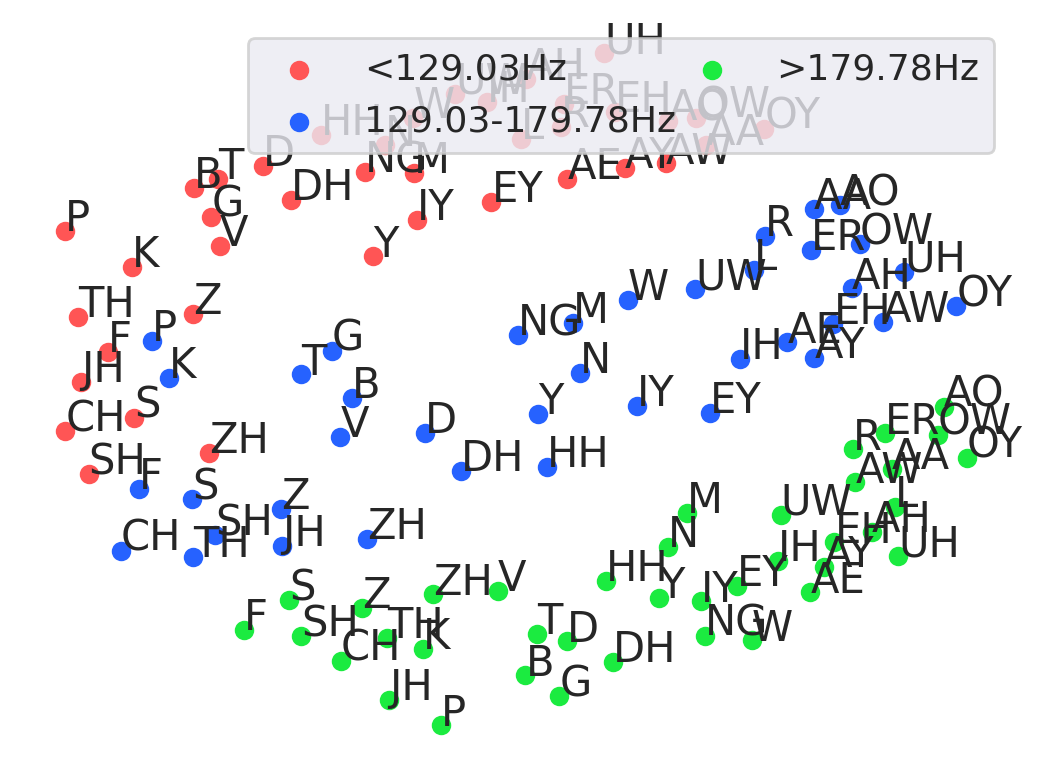
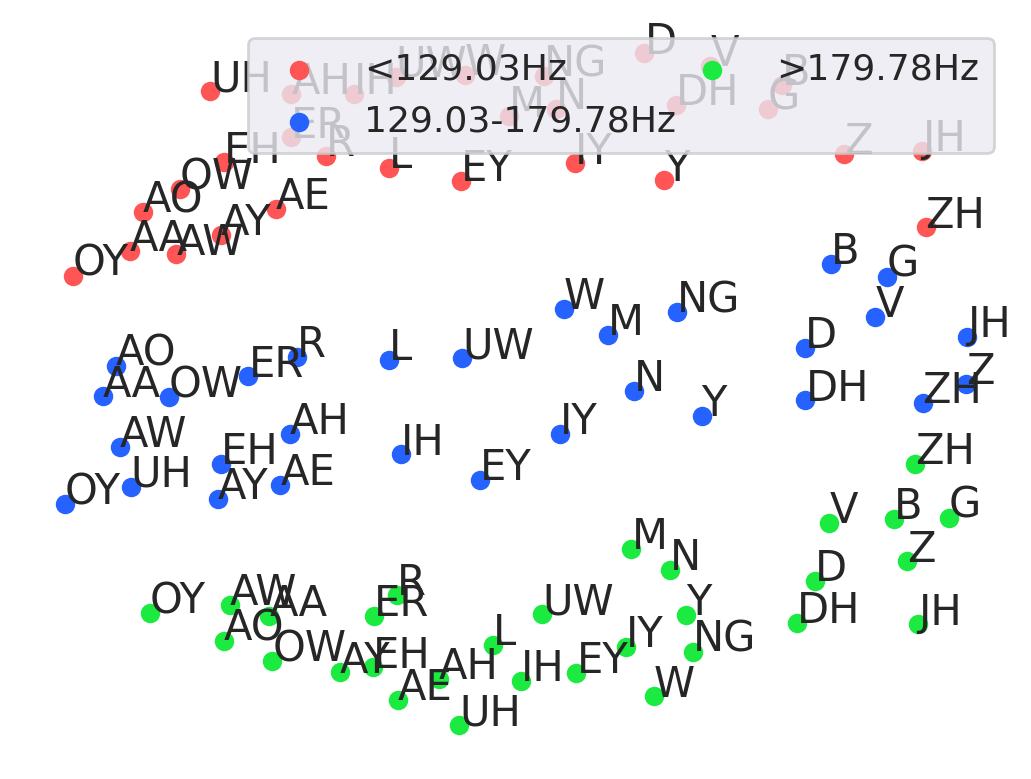
remove unvoiced consonants from pitch group

Changed region(s): [[0.031, 0.0308, 0.9932, 0.9551], [0.8691, 0.154, 0.9622, 0.2157], [0.8691, 0.7702, 0.9311, 0.8318]]

diff --git a/visualize_phone.py b/visualize_phone.py
@@ -268,7 +268,6 @@ def main(pkl_pth, save_pth, phone_label_pth, mode, layer_n):
     sort_phone = sorted(phone_label, key=lambda x: phone_label[x][1], reverse=True)
     sort_phone_same = sort_by_same_phone(sort_phone)
     sort_phone_unvoiced, num_type = sort_voiced_unvoiced(sort_phone_same)
-    print(sort_phone_unvoiced, num_type)
 
     n_phone = len(sort_phone)
 
@@ -319,6 +318,8 @@ def main(pkl_pth, save_pth, phone_label_pth, mode, layer_n):
         label = ['<129.03Hz', '129.03-179.78Hz', '>179.78Hz']
         # =================
         phone_name = sort_phone_unvoiced
+        num_unvoiced = num_type[-1]
+        phone_name = phone_name[:-num_unvoiced]
         phone_idx = [phone_label[x][0] for x in phone_name]
         draw_mds_pitch(data, save_pth, phone_name, layer, num_type, label, phone_idx)
     elif mode == 'keys-activated-vector-demo': 

diff --git a/reproduce_figure/draw.py b/reproduce_figure/draw.py
@@ -83,9 +83,13 @@ def mds_duration(phone_name):
 
 def mds_results():
     phone_name = ['AH', 'IH', 'IY', 'EH', 'ER', 'AE', 'AY', 'EY', 'AO', 'AA', 'OW', 'UW', 'AW', 'UH', 'OY', 'N', 'D', 'R', 'L', 'DH', 'M', 'Z', 'W', 'V', 'B', 'NG', 'G', 'Y', 'JH', 'ZH', 'T', 'S', 'K', 'HH', 'F', 'P', 'SH', 'TH', 'CH']
+    phone_name_pitch = ['AH', 'IH', 'IY', 'EH', 'ER', 'AE', 'AY', 'EY', 'AO', 'AA', 'OW', 'UW', 'AW', 'UH', 'OY', 'N', 'D', 'R', 'L', 'DH', 'M', 'Z', 'W', 'V', 'B', 'NG', 'G', 'Y', 'JH', 'ZH']
     properties = ['phoneme', 'gender', 'pitch', 'duration']
     for p in properties:
-        eval(f"mds_{p}")(phone_name)
+        if p != 'pitch':
+            eval(f"mds_{p}")(phone_name)
+        else:
+            eval(f"mds_{p}")(phone_name_pitch)
 
 def layer_compare():
     with open('data/layer_score.json', 'r') as fp:
